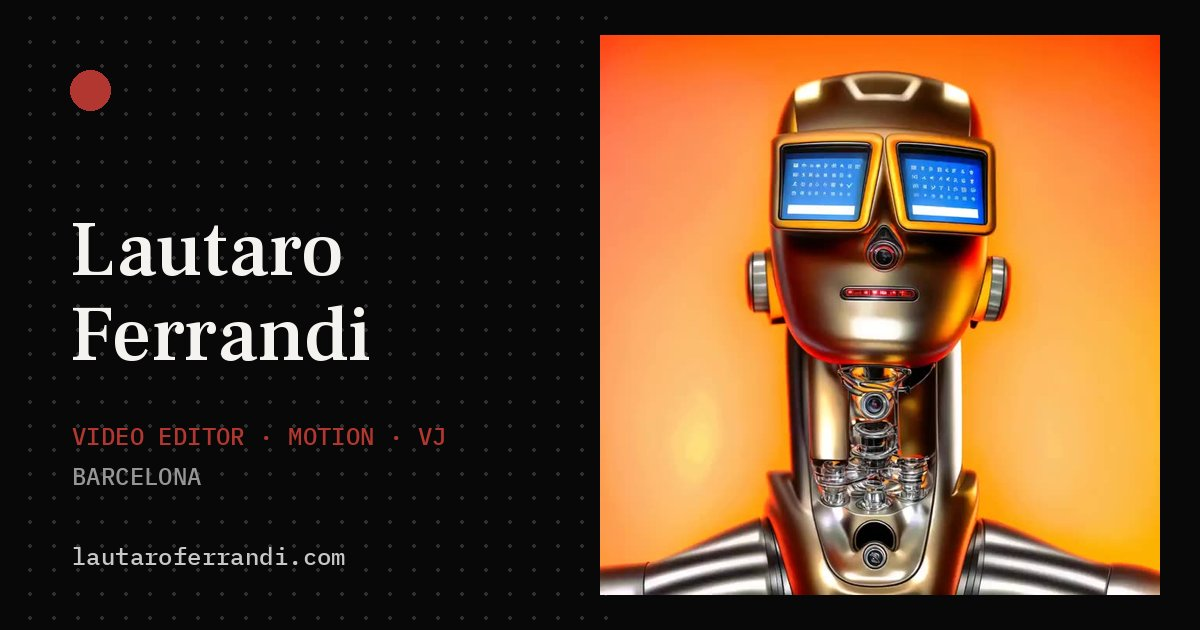
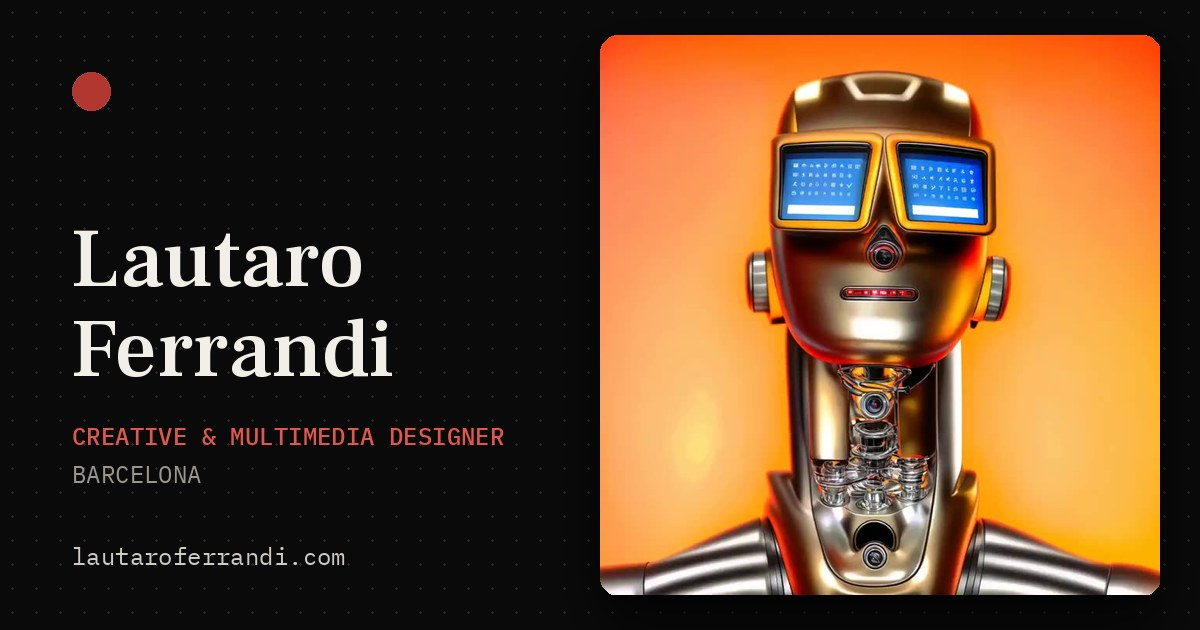
Mobile menu as full-screen overlay, block reveals, new share images (EN/ES), case/heading borders
Claude-Session: https://claude.ai/code/session_01BUTcawNdGFRFG3hEY5QCVu

diff --git a/src/styles/global.css b/src/styles/global.css
@@ -163,15 +163,25 @@ p { margin: 0 0 1.1em; text-wrap: pretty; }
   .menu-toggle[aria-expanded='true'] span:nth-child(2) { opacity: 0; }
   .menu-toggle[aria-expanded='true'] span:nth-child(3) { transform: translateY(-8px) rotate(-45deg); }
   .nav {
-    position: fixed; inset: var(--header-h) 0 auto 0;
-    background: var(--bg); border-bottom: 1px solid var(--line);
-    padding: 1.5rem var(--pad) 2rem;
-    display: none;
+    position: fixed; inset: var(--header-h) 0 0 0;
+    background: rgba(10, 10, 10, 0.97); -webkit-backdrop-filter: blur(12px); backdrop-filter: blur(12px);
+    padding: 2.5rem var(--pad) 2rem;
+    display: flex; flex-direction: column; justify-content: space-between;
+    opacity: 0; visibility: hidden; transform: translateY(-8px);
+    transition: opacity 0.3s var(--ease), transform 0.3s var(--ease), visibility 0s 0.3s;
   }
-  .nav.is-open { display: block; }
-  .nav ul { flex-direction: column; gap: 1.25rem; }
-  .nav a { font-size: 0.9rem; }
+  .nav.is-open { opacity: 1; visibility: visible; transform: none; transition: opacity 0.3s var(--ease), transform 0.3s var(--ease); }
+  .nav > ul { flex-direction: column; gap: 0.5rem; }
+  .nav > ul a { font: 500 clamp(2.4rem, 11vw, 3.4rem)/1.15 var(--serif); letter-spacing: -0.01em; text-transform: none; text-shadow: none; }
+  .nav > ul a::after { display: none; }
+  .nav__extra { display: grid; gap: 1.25rem; padding-top: 1.5rem; border-top: 1px solid var(--line); }
+  .nav__mail { font: 400 1.05rem/1.3 var(--serif); text-transform: none; letter-spacing: 0; }
+  .nav__socials { display: flex; flex-wrap: wrap; gap: 0.75rem 1.5rem; list-style: none; margin: 0; padding: 0; }
+  .nav__socials a { color: var(--muted); font-size: 0.75rem; }
+  html.menu-open { overflow: hidden; }
+  html.menu-open .site-header { background: rgba(10, 10, 10, 0.97); border-bottom-color: var(--line); }
 }
+@media (min-width: 721px) { .nav__extra { display: none; } }
 
 /* --- hero ------------------------------------------------------------------ */
 
@@ -569,7 +579,9 @@ main > section:not([data-fluid]), .site-footer { position: relative; z-index: 1;
 
 /* --- heading + node diagram blocks ---------------------------------------------- */
 
-.block-heading { padding-top: clamp(2rem, 5vw, 4rem); border-top: 1px solid var(--line); max-width: 62ch; }
+.block-heading { padding-top: clamp(2rem, 5vw, 4rem); border-top: 1px solid var(--line); }
+.block-heading > * { max-width: 62ch; }
+.case + .blocks > .block-heading:first-child { border-top: 0; padding-top: 0; }
 .block-heading h2 { font-size: clamp(1.8rem, 3.6vw, 2.8rem); margin: 0.4rem 0 0.8rem; }
 .block-heading__label { color: var(--red-text); font-size: 0.75rem; margin: 0; }
 .block-heading__text { margin: 0; color: #cfcbc3; }

diff --git a/src/scripts/site.ts b/src/scripts/site.ts
@@ -11,18 +11,22 @@ window.addEventListener('scroll', onScroll, { passive: true });
 // Mobile menu
 const toggle = document.querySelector<HTMLButtonElement>('[data-menu-toggle]');
 const nav = document.getElementById('site-nav');
-toggle?.addEventListener('click', () => {
-  const open = nav?.classList.toggle('is-open') ?? false;
-  toggle.setAttribute('aria-expanded', String(open));
-});
-nav?.querySelectorAll('a').forEach((a) =>
-  a.addEventListener('click', () => {
-    nav.classList.remove('is-open');
-    toggle?.setAttribute('aria-expanded', 'false');
-  }),
-);
+const setMenu = (open: boolean) => {
+  nav?.classList.toggle('is-open', open);
+  toggle?.setAttribute('aria-expanded', String(open));
+  document.documentElement.classList.toggle('menu-open', open);
+};
+toggle?.addEventListener('click', () => setMenu(!nav?.classList.contains('is-open')));
+nav?.querySelectorAll('a').forEach((a) => a.addEventListener('click', () => setMenu(false)));
+document.addEventListener('keydown', (e) => { if (e.key === 'Escape' && nav?.classList.contains('is-open')) { setMenu(false); toggle?.focus(); } });
+window.matchMedia('(min-width: 721px)').addEventListener('change', (e) => { if (e.matches) setMenu(false); });
 
-// Reveal on scroll
+// Reveal on scroll. Project blocks below the fold join in too (never anything already on screen).
+if (!reduceMotion) {
+  document.querySelectorAll<HTMLElement>('.blocks > *, .case__row, .next').forEach((el) => {
+    if (el.getBoundingClientRect().top > window.innerHeight) el.setAttribute('data-reveal', '');
+  });
+}
 const revealables = document.querySelectorAll<HTMLElement>('[data-reveal]');
 if ('IntersectionObserver' in window && !reduceMotion) {
   const io = new IntersectionObserver(
